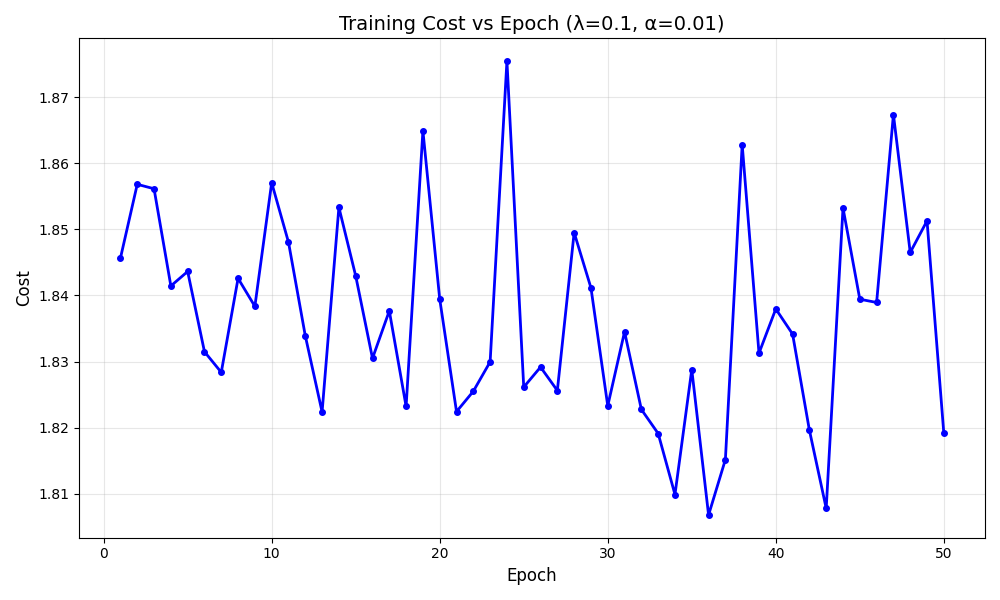
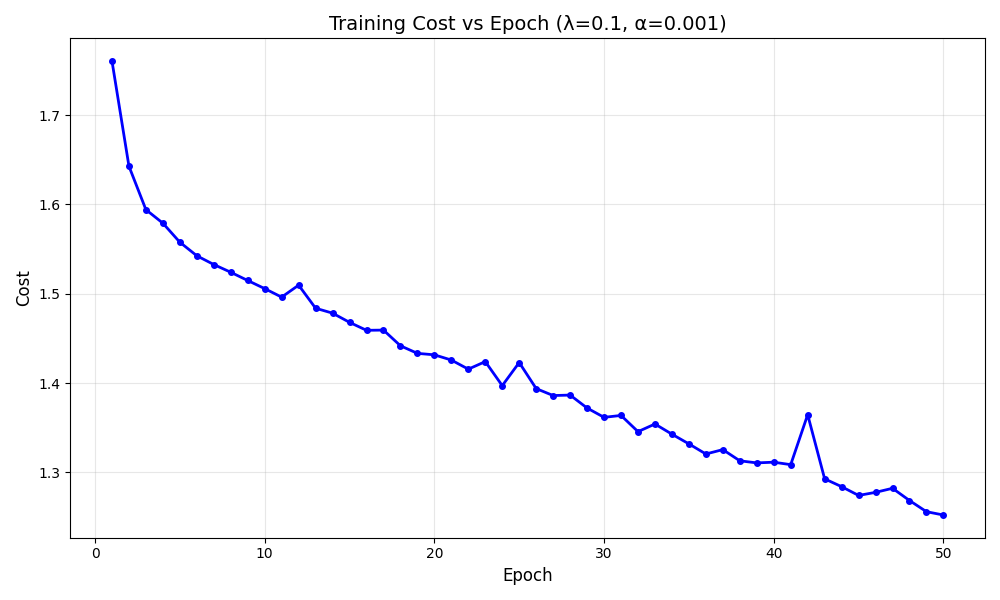
hw6 done

diff --git a/week6/sGD.py b/week6/sGD.py
@@ -13,9 +13,10 @@ def sGD(input_layer_size, hidden_layer_size, num_labels, X_train, y_train, λ, a
 
     for epoch in range(MaxEpochs):
         rand_sample_idx = np.random.permutation(m)
-        # perform forward pass to compute all activations 
+        
         for i in rand_sample_idx:
-            x = X_train[i].reshape(-1)
+            # perform forward pass to compute all activations 
+            x = X_train[i].reshape(-1) # input_layer_size x 1
             y_label = int(y_train[i].item())
 
             y = np.zeros(num_labels)
@@ -30,22 +31,20 @@ def sGD(input_layer_size, hidden_layer_size, num_labels, X_train, y_train, λ, a
             a3 = sigmoid.sigmoid(z3)
 
             # perform backpropagation + gradient descent for each epoch
-            δ3 = a3 - y
-            δ2 = (θ2[:,1:].T @ δ3)  * (sigmoidGradient.sigmoidGradient(z2))
-
+            δ3 = a3 - y # labels x 1
+            δ2 = (θ2.T @ δ3)[1:]  * (sigmoidGradient.sigmoidGradient(z2)) 
+            
             # get gradients
             Δ2 = np.outer(δ3, a2)
             Δ1 = np.outer(δ2, a1)
 
-            # regularization w|o bias
-            D2 = Δ2
-            D2[:,1:] += λ * θ2[:,1:] 
-            D1 = Δ1 
-            D1[:,1:] += λ * θ1[:,1:] 
+            # regularization w|o bias 
+            Δ2[:,1:] += λ/m * θ2[:,1:]   
+            Δ1[:,1:] += λ/m * θ1[:,1:] 
 
             # update θ values
-            θ1 -= alpha * D1
-            θ2 -= alpha * D2
+            θ1 -= alpha * Δ1
+            θ2 -= alpha * Δ2
         # print(f'epoch {epoch+1}/{MaxEpochs}',end=" ")
 
         J = nnCost.nnCost(θ1, θ2, X_train, y_train, num_labels, λ)

diff --git a/week6/ps6.py b/week6/ps6.py
@@ -81,7 +81,7 @@ input_layer_size = 1024
 hidden_layer_size = 40
 num_labels = 3
 λ = 0.1
-alpha = 0.01
+alpha = 0.001
 MaxEpochs = 50
 
 start_time = time.time()
@@ -92,6 +92,7 @@ J = nnCost.nnCost(θ1, θ2, X_train, y_train, num_labels, λ)
 print(f'cost after 50 epochs: {J}')
 print(f'time to run 50 epochs: {end_time-start_time}')
 
+# figure of costs vs iterations
 plot.figure(figsize=(10, 6))
 plot.plot(range(1, MaxEpochs+1), costs, 'b-', linewidth=2, marker='o', markersize=4)
 plot.xlabel('Epoch', fontsize=12)
